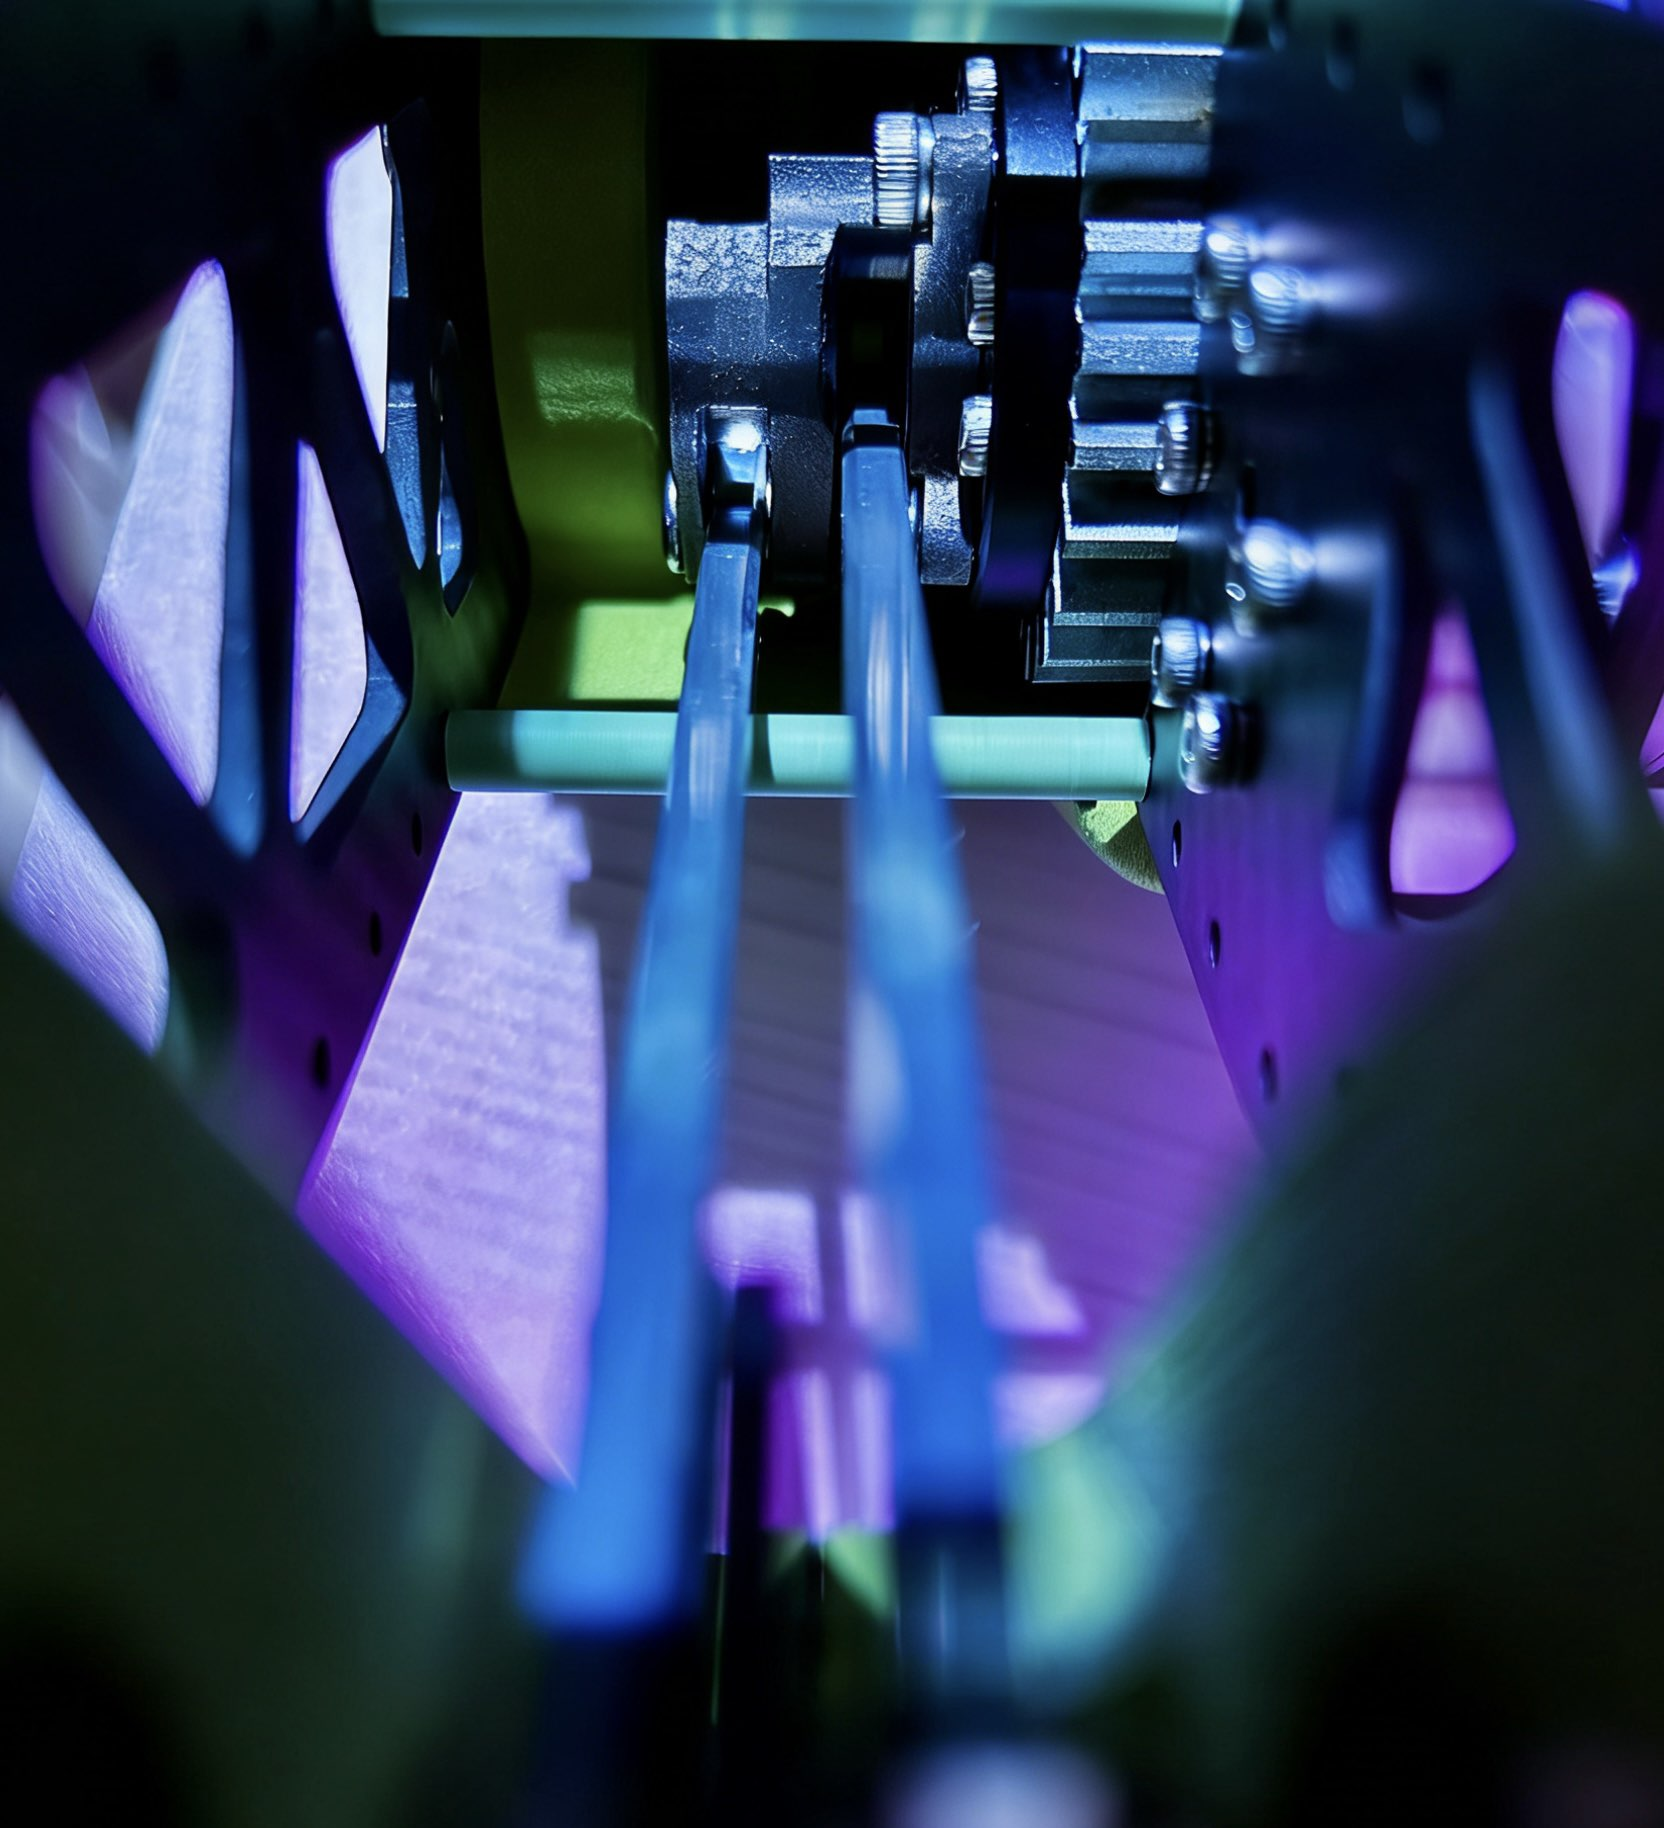
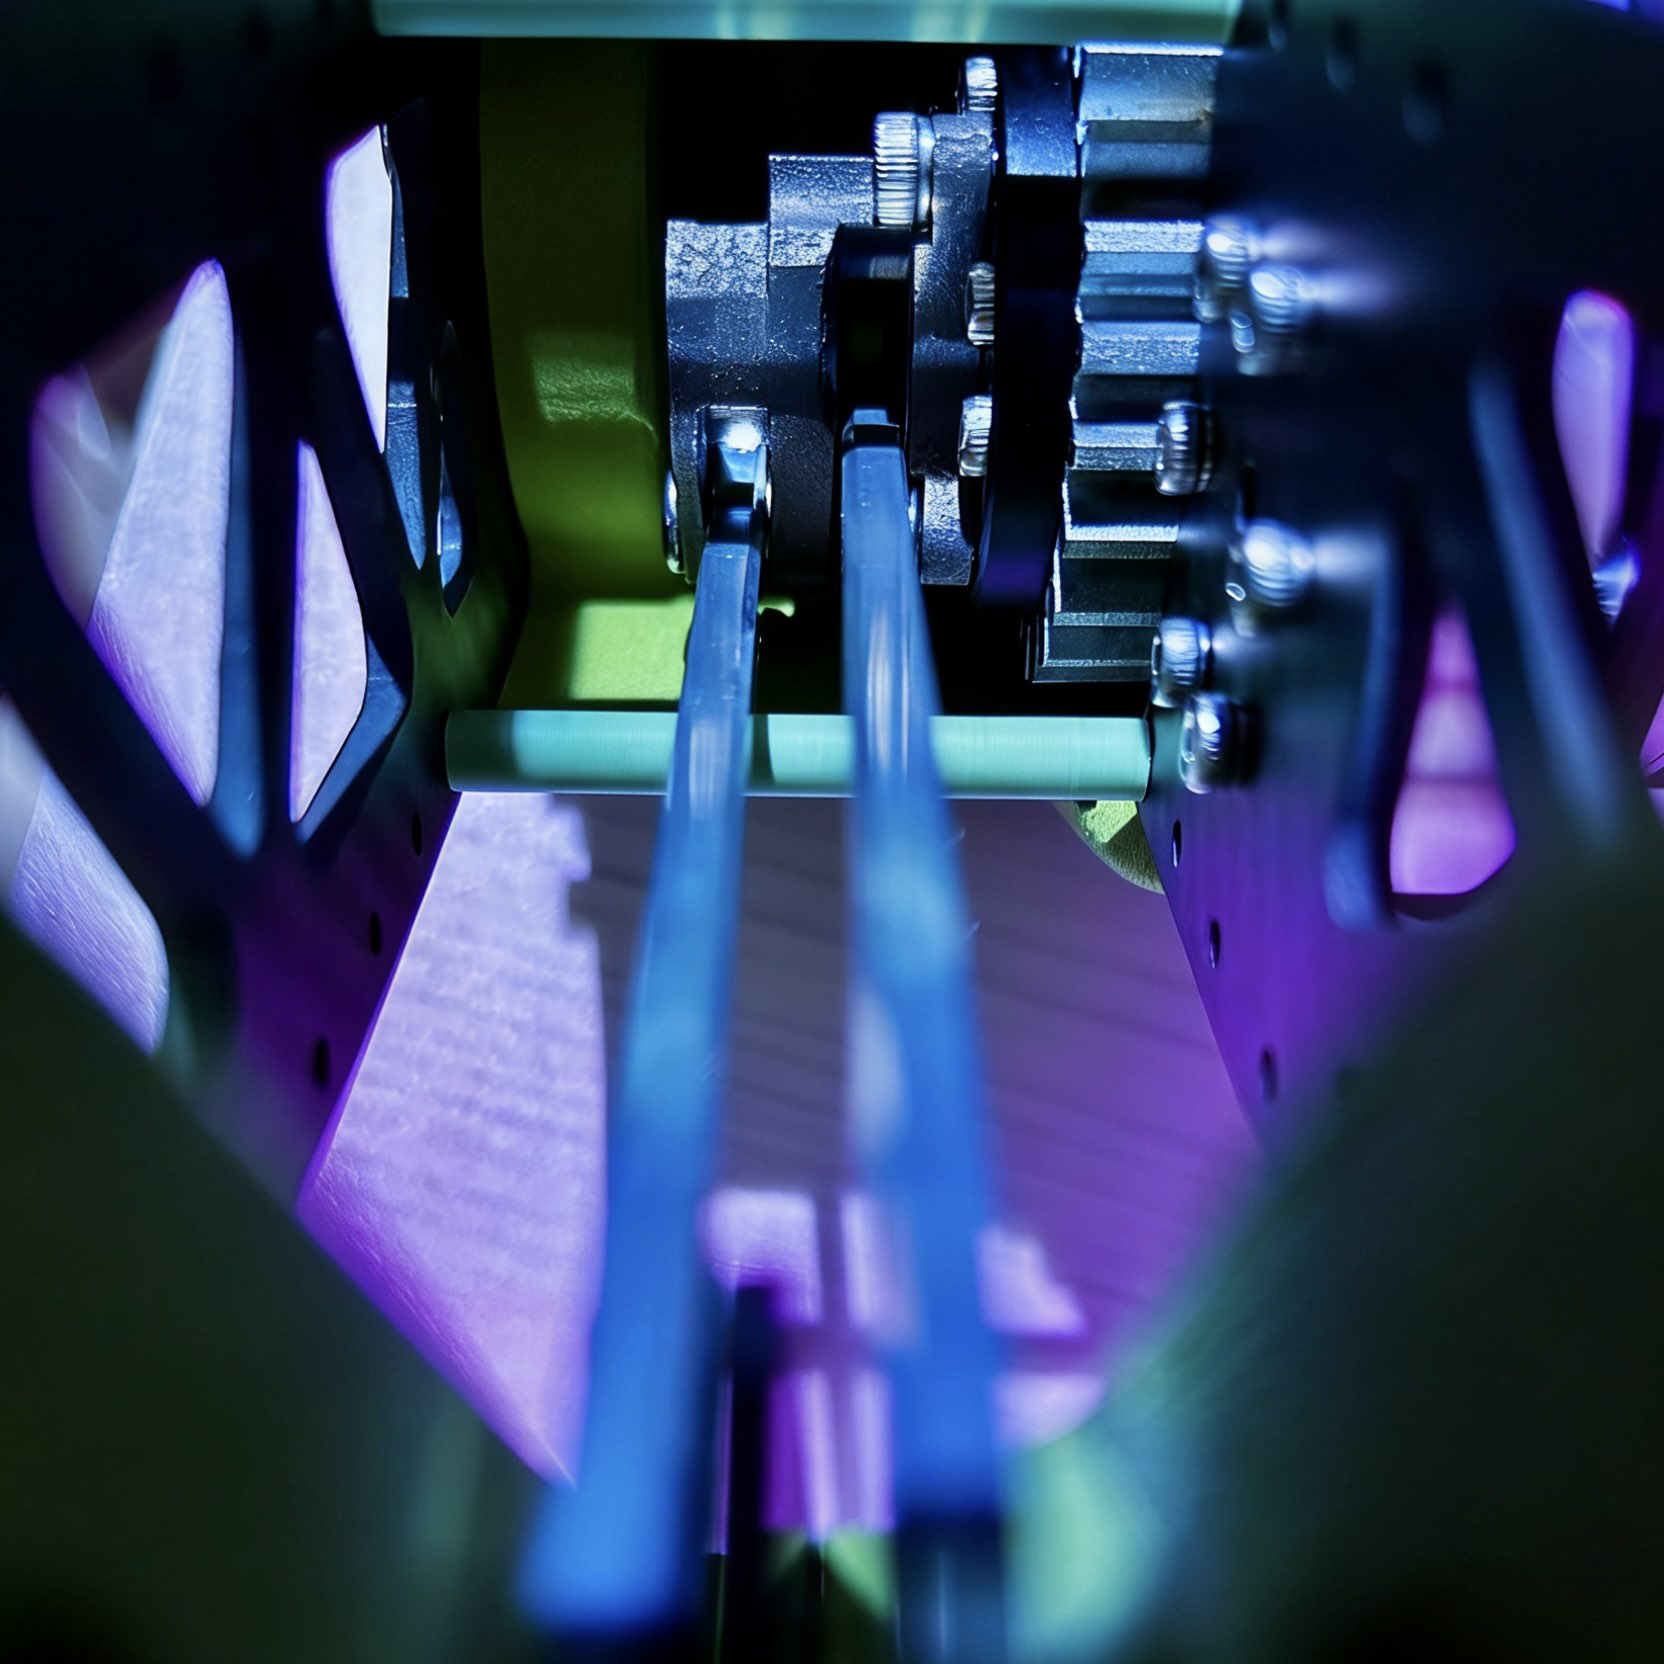
za7

diff --git a/_projects/8dof.md b/_projects/8dof.md
@@ -2,7 +2,7 @@
 layout: page
 title: 八自由度并联四足机器人
 description: 基于筝形四连杆机构的轻量化并联机器人，获国家级大创立项。
-img: assets/img/四足.png
+img: assets/img/四足正方.png
 importance: 1
 category: work
 ---
@@ -14,6 +14,13 @@ category: work
 1. **并联机构设计**：创新性地利用筝形四连杆机构，有效提升了足端爆发力，减少腿部惯量并降低了电机负载。
 2. **轻量化优化**：通过计算机辅助设计（CAD），在保证强度的前提下,通过材料优化、形状优化对机架进行了减重处理。
 3. **仿真与测试**：针对高运动性能需求，对足端材料和尺寸进行了迭代优化，并通过 Adams 进行动力学仿真。
+
+### 实物展示
+<div class="row">
+    <div class="col-sm mt-3 mt-md-0">
+        {% include figure.liquid loading="eager" path="assets/img/四足.png" title="比赛靓照" class="img-fluid rounded z-depth-1" %}
+    </div>    
+</div>
 
 ### 演示视频
 <div class="row justify-content-sm-center">

diff --git a/_projects/others.md b/_projects/others.md
@@ -18,7 +18,7 @@ category: work
         {% include figure.liquid loading="eager" path="assets/img/直驱舵.png" title="直驱舵" class="img-fluid rounded z-depth-1" %}
     </div>
     <div class="col-sm mt-3 mt-md-0">
-        {% include figure.liquid loading="eager" path="assets/img/差速舵.png" title="差速舵" class="img-fluid rounded z-depth-1" %}
+        {% include figure.liquid loading="eager" path="assets/img/差速舵.png" title="差速舵" class=s"img-fluid rounded z-depth-1" %}
     </div>
     <div class="col-sm mt-3 mt-md-0">
         {% include figure.liquid loading="eager" path="assets/img/CURC.png" title="在研" class="img-fluid rounded z-depth-1" %}
@@ -28,7 +28,6 @@ category: work
 
 ### 项目二：轴系入门课
 面向大一、大二机器人队预备队员开展的培训入门课程，详细讲解了轴承与机器人轴系设计。
-
 
 
 ---

diff --git a/_projects/6_project.md b/_projects/6_project.md
@@ -1,15 +1,13 @@
 ---
 layout: page
-title: project 6
-description: a project with no image
+title: 基于stm32对AmazingHand的复现
+description: 机电一体化课程设计，正在进行中
 img:
 importance: 4
 category: fun
 ---
 
-Every project has a beautiful feature showcase page.
-It's easy to include images in a flexible 3-column grid format.
-Make your photos 1/3, 2/3, or full width.
+视觉遥操
 
 To give your project a background in the portfolio page, just add the img tag to the front matter like so:
 

diff --git a/_pages/projects.md b/_pages/projects.md
@@ -1,8 +1,8 @@
 ---
 layout: page
-title: projects
+title: project
 permalink: /projects/
-description: A growing collection of your cool projects.
+description: 努力成为优秀的工程师
 nav: true
 nav_order: 3
 display_categories: [work, fun]
